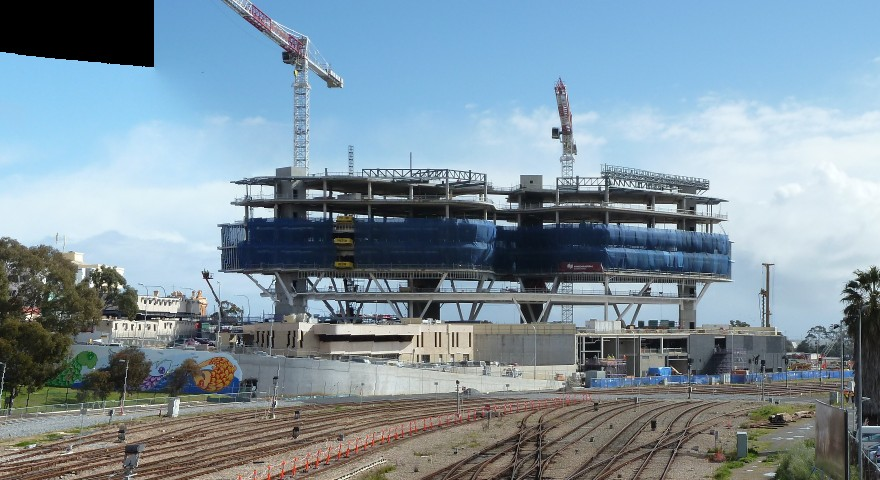
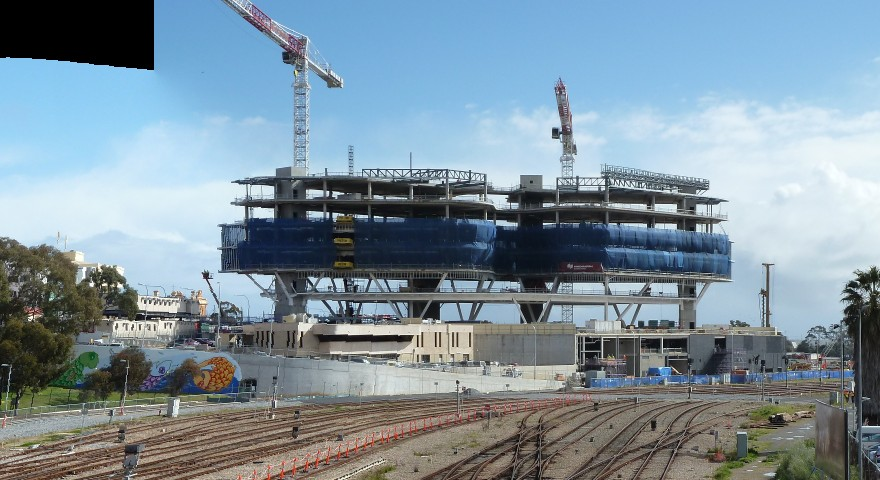
update readme with parameter study and regenerated figures

diff --git a/README.md b/README.md
@@ -48,11 +48,12 @@ With `--imglist`, each line of the txt file is one stitching set.
 |---|---|---|
 | `--resize W H` | 400 300 | each input image is resized to this size |
 | `--mesh_size` | 100 | # of cells per side for local homographies |
-| `--gamma` | 0.0001 | weight offset in the paper (see 6.) |
-| `--sigma` | 8.5 | weight bandwidth in the paper |
+| `--gamma` | 0.01 | weight offset in the paper (see 6.) |
+| `--sigma` | 8.5 | weight bandwidth in the paper (see 6.) |
 | `--ransac_thres` | 30 | RANSAC inlier distance (px) |
 | `--ransac_sample` | 12 | # of samples per RANSAC trial |
 | `--multiband` | False | multi-band blending instead of uniform blending |
+| `--auto_param` | False | choose sigma and gamma automatically (see 6.) |
 | `--saveroot` | None | save directory (not saved if None) |
 | `--image_show` | 0 | # of result images to show, -1 shows all |
 
@@ -86,18 +87,22 @@ Multi-band blending ([Burt & Adelson, 1983](https://doi.org/10.1145/245.247)) hi
 |---|---|
 | ![Uniform](./assets/blend_uniform.jpg) | ![Multi-band](./assets/blend_multiband.jpg) |
 
-(demo5, the same warped images)
+(demo5 with sigma 8.5 and gamma 0.01, the same warped images)
 
 
 
-## 6. Gamma
+## 6. Parameter Study
 
-`gamma` is the lower bound of the moving DLT weights.
-Cells far from feature points fall back to the global homography as gamma grows.
+Moving DLT weights each feature point by `max(exp(-d / sigma^2), gamma)`, where `d` is the distance from a mesh cell.
+
+- `sigma`: how far a feature point affects the local homography.
+- `gamma`: the lower bound of the weights. Cells far from feature points fall back to the global homography as gamma grows.
+
+The defaults, **sigma 8.5 and gamma 0.01**, are chosen empirically, and all demo scripts use them.
+
+### Gamma
 
 - Recommended: **0.005 ~ 0.01** (with sigma 8.5)
-- Smaller gamma does not improve the alignment, but bends the regions without feature points more.
-- Larger gamma (0.05 ~) loses alignment accuracy on scenes with large parallax.
 
 Each colored line is one image pair, and the dashed black line is their mean.
 
@@ -109,23 +114,48 @@ Below 1.0, APAP aligns the images better than a single global homography.
 
 The larger the value, the more the regions without feature points are bent.
 
+### Automatic Selection
+
+The best values differ by scene, so sigma and gamma can also be chosen automatically.
+
+```
+python main.py --imgs a.jpg b.jpg c.jpg --auto_param True   # chooses them for each stitching stage
+python tune.py --imgs a.jpg b.jpg c.jpg                     # recommends one pair for the whole input
+```
+
+- `tune.py` takes the same options as `main.py`, and prints the values to put in `--sigma` and `--gamma`.
+- The candidates (sigma 4 ~ 24, gamma 0.0015 ~ 0.1) are evaluated by spatial cross-validation on the matched feature points.
+  Among the candidates within 1% of the lowest error, the largest gamma and sigma are chosen to bend the image less.
+- Recommendations of `tune.py` for the demo images:
+
+| Case | sigma | gamma |
+|---|---|---|
+| bridge, newspaper, pier | 24 | 0.1 |
+| hill | 6 | 0.05 |
+| ledge, uttower | 6 | 0.01 |
+| snow | 6 | 0.0015 |
+| demo2 | 8.5 | 0.0015 |
+| demo3 | 12 | 0.1 |
+| demo4 | 6 | 0.1 |
+| demo5 | 6 | 0.0015 |
+
+- The error is measured only near feature points, so the chosen values do not always look better than the defaults.
+
 
 
 ## 7. Why do stitching recursively?
 
 - If images are stitched sequentially from the left, the first image becomes the reference and the far side is stretched excessively.
-- Recursive stitching splits the list in half and warps each half toward the middle, so the center image becomes the reference. (The paper also starts from a central image.)
-- Recursive Stitching:
+- Recursive stitching splits the list in half and warps each half toward the middle, so the center image becomes the reference.
+- Recursive Stitching (`a -> b`: a is warped onto b):
 
-![Recursive](./assets/Figure2.gif)
+![Recursive](./assets/recursive.gif)
 
 - Sequential Stitching:
 
-![figure3](./assets/Figure3.gif)
+![Sequential](./assets/sequential.gif)
 
-- Limitations
-  - APAP improves the alignment of each pair, but a wide panorama is still stretched toward the edges because all images are projected onto one plane.
-  - Outer images are warped several times, so they lose some sharpness, and features are matched on already-stitched images.
+(demo2 with sigma 8.5 and gamma 0.01)
 
 
 
@@ -148,11 +178,12 @@ The larger the value, the more the regions without feature points are bent.
 ## 9. History
 
 - **2020.12.28. ~ 2021.01.03.** Initial implementation
-- **2026.10.15.** 1st major update
+- **2026.10.15. ~ 2026.10.16.** 1st major update
   - Local homographies are estimated in the canvas frame, as in the official code.
   - Mesh vertices are placed at the cell centers.
   - Faster RANSAC and local warping (vectorized).
   - Multi-band blending option (`--multiband`).
+  - Automatic sigma & gamma selection (`--auto_param`, `tune.py`).
   - Supports recent libraries (NumPy 2, OpenCV 5).
   - Bug fixes: RANSAC trial number, error handling, mask list, `--imglist` order.
   - Demo scripts are moved to `scripts/`, and results are saved in `./results`.
